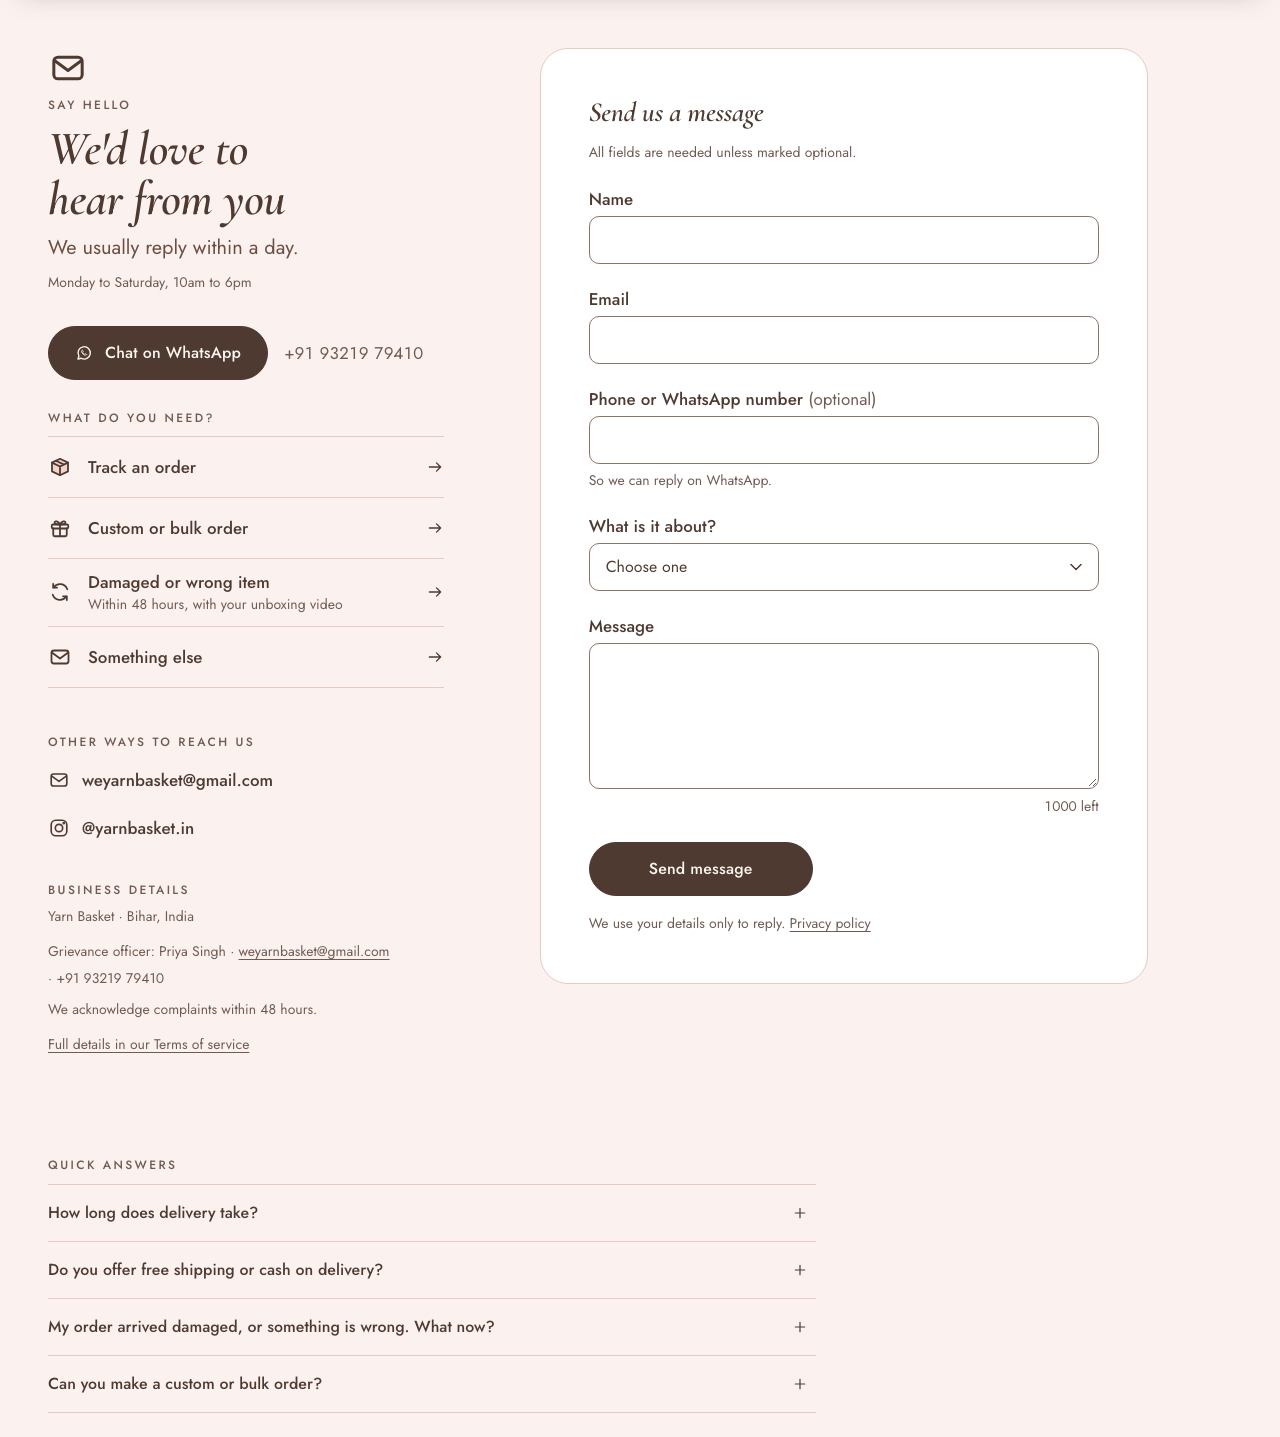
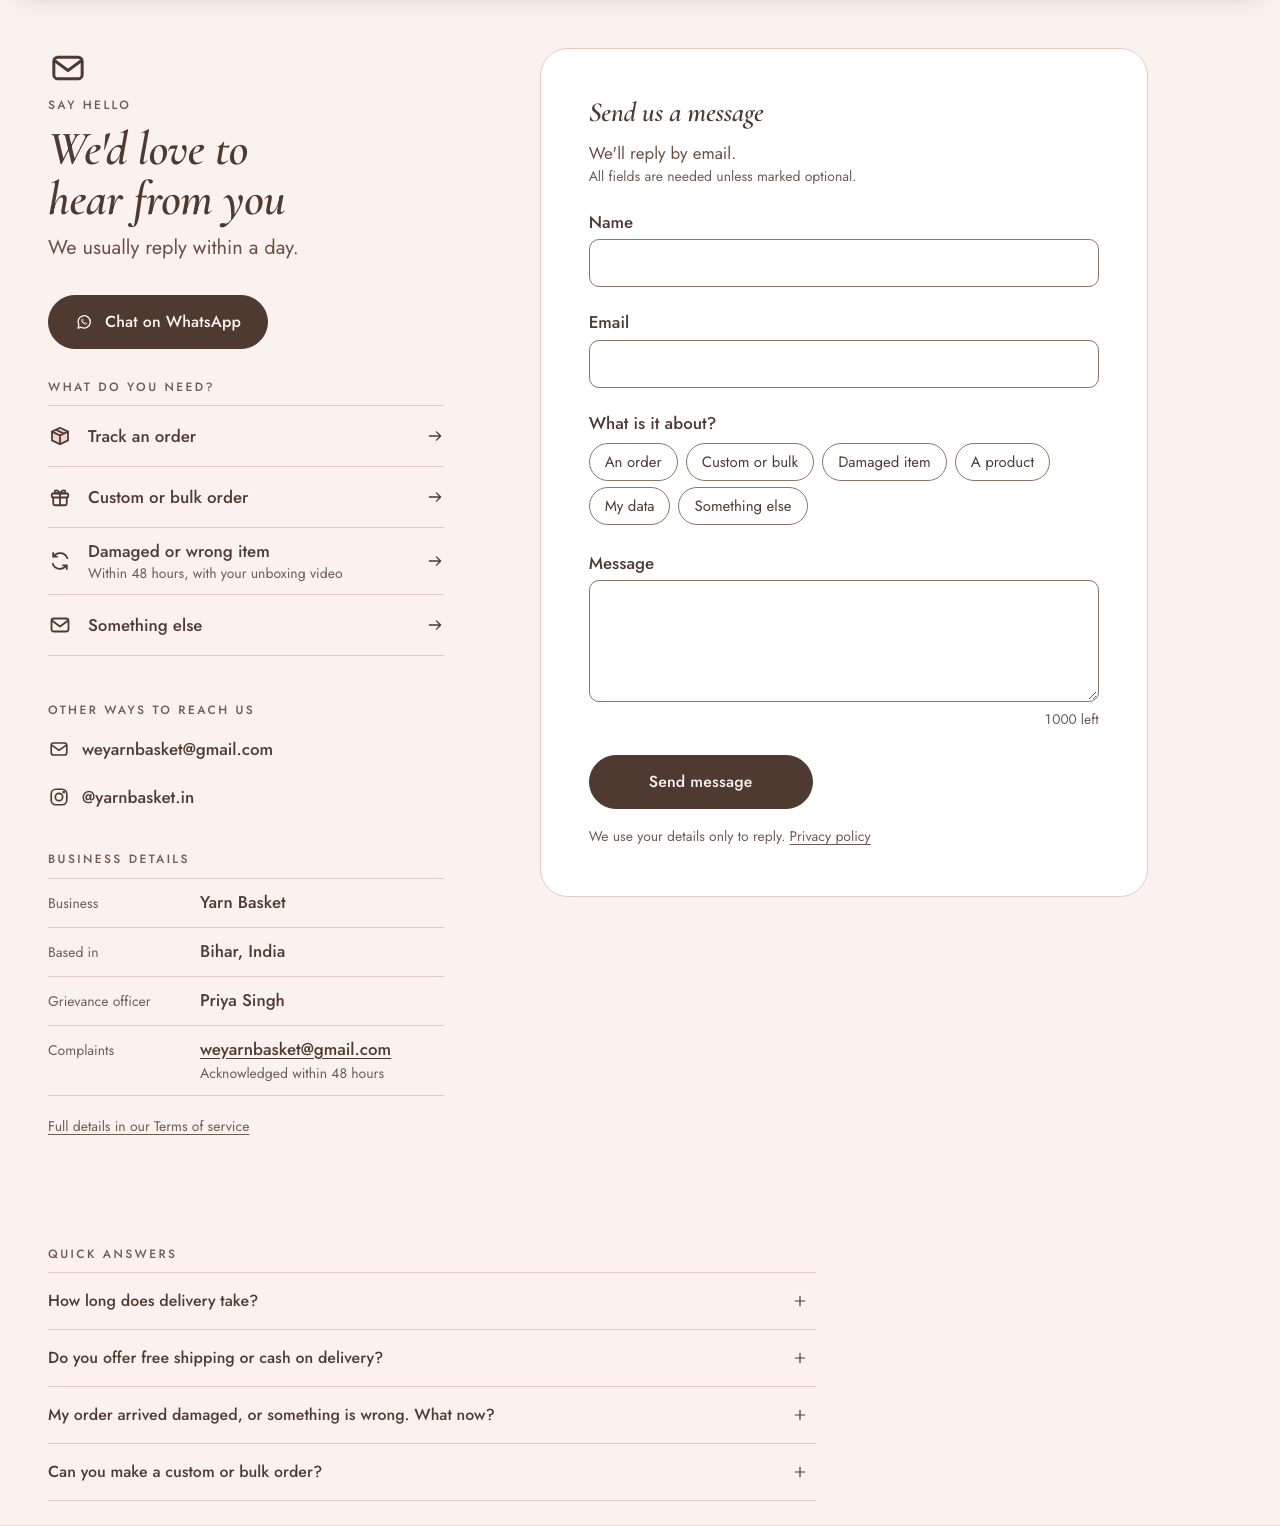
Contact page, round 2: no phone number or hours, the topic as six pills, no phone field, "We'll reply by email", business details as a small table; structured data carries the email only (docs/contact-plan.md "Round 2", docs/decisions.md 2026-10-08).

diff --git a/theme/assets/contact.js b/theme/assets/contact.js
@@ -1,5 +1,5 @@
 // Contact page (docs/contact-plan.md). The form works without this file: it posts as a normal page load. This adds
-// a message under a field that is wrong, the order number only for the topics that have one, the characters left,
+// a message under a field that is wrong (the topic pills count as one), the order number only for the topics that have one, the characters left,
 // a form filled in from the address (?topic=order&order=1042&about=…) and a "Sending…" button.
 const form = document.querySelector('[data-contact-form]');
 const topic = form?.querySelector('[data-topic]');
@@ -11,14 +11,15 @@ if (topic) {
   const send = form.querySelector('[data-send]');
   const label = send.textContent;
   const checked = [...form.querySelectorAll('[data-error]')];
-  const key = () => topic.selectedOptions[0]?.dataset.key || '';
+  const radios = [...topic.querySelectorAll('input')];
+  const key = () => radios.find((r) => r.checked)?.dataset.key || '';
   const store = { get: () => { try { return JSON.parse(sessionStorage.getItem('yb-contact')) || {}; } catch { return {}; } }, set: (v) => { try { sessionStorage.setItem('yb-contact', JSON.stringify(v)); } catch {} } };
 
   form.noValidate = true;
   const ready = () => { send.removeAttribute('aria-disabled'); send.textContent = label; };
 
   const check = (field) => {
-    const bad = !field.validity.valid;
+    const bad = field === topic ? !key() : !field.validity.valid;
     const out = document.getElementById(`${field.id}-error`);
     if (bad) field.setAttribute('aria-invalid', 'true');
     else field.removeAttribute('aria-invalid');
@@ -33,8 +34,8 @@ if (topic) {
     form.querySelectorAll('[data-topic-note]').forEach((el) => { el.hidden = el.dataset.topicNote !== now; });
   };
   const pick = (wanted) => {
-    const option = [...topic.options].find((o) => o.dataset.key === wanted);
-    if (option) topic.value = option.value;
+    const radio = radios.find((r) => r.dataset.key === wanted);
+    if (radio) radio.checked = true;
     showTopic();
   };
   const count = () => {
@@ -53,11 +54,11 @@ if (topic) {
   showTopic();
   count();
 
-  checked.forEach((field) => {
+  checked.filter((field) => field !== topic).forEach((field) => {
     field.addEventListener('blur', () => { if (field.value || field.hasAttribute('aria-invalid')) check(field); });
     field.addEventListener('input', () => { if (field.hasAttribute('aria-invalid')) check(field); });
   });
-  topic.addEventListener('change', showTopic);
+  topic.addEventListener('change', () => { showTopic(); if (topic.hasAttribute('aria-invalid')) check(topic); });
   body.addEventListener('input', count);
   document.querySelectorAll('[data-topic-link]').forEach((link) => link.addEventListener('click', () => pick(link.dataset.topicLink)));
 
@@ -65,7 +66,7 @@ if (topic) {
     const wrong = checked.filter((field) => !check(field));
     if (wrong.length) {
       event.preventDefault();
-      wrong[0].focus();
+      (wrong[0] === topic ? radios[0] : wrong[0]).focus();
       return;
     }
     if (order.closest('[hidden]')) order.value = '';

diff --git a/docs/contact-plan.md b/docs/contact-plan.md
@@ -1,6 +1,6 @@
 # Contact page
 
-**Status: built 2026-10-08, waiting for Raushan's look on a phone and one real send.** Decisions in `decisions.md`. Guarded by `npm run check -- --only 23`. Preview: `/pages/contact?view=contact` (until the page's template is set to `contact`, plain `/pages/contact` shows the page without the quick answers).
+**Status: built 2026-10-08, round 2 the same day (see the end: no phone number or hours, topic pills, no phone field, business details as a table). Where this page and "Round 2" differ, Round 2 is what is built.** Decisions in `decisions.md`. Guarded by `npm run check -- --only 23`. The store's Contact page already uses the `contact` template, so `/pages/contact` shows everything.
 
 Mockups (the page as built): `docs/mockups/contact-360.png`, `contact-1280.png`.
 
@@ -195,4 +195,19 @@ What differs from the plan above, and what was found on the way:
 - **Check 23 has 18 lines** on 360, 320 and 1280px: fit, one h1, 44px controls, 16px labelled fields, the empty send, messages clearing, the order number following the topic, axe as the page opens and with messages, a filled-in arrival, the WhatsApp messages, and no JavaScript.
 - **Found, not fixed (not this page):** the phone menu's "Custom orders" tile opens WhatsApp with "I&#39;d like to ask…" in the message. The `t` filter escapes the apostrophe before `url_encode`; `replace: '&#39;', "'"` first fixes it, as the product page does. It is in `theme/sections/header.liquid`, which another session has open.
 
-Still to do, with Raushan's go: set the page's template to `contact` and its SEO title and description (Admin API); approve the `ContactPage` structured data.
+
+## Round 2 (2026-10-08, after Raushan's look on a phone)
+
+Raushan sent a real message and it arrived. He asked for the phone number and the hours to go, for better-looking business details, and whether the form is worth keeping; then for Claude's opinion, to go with it.
+
+- **The form stays, shorter.** Not everyone has WhatsApp to hand (a work laptop, a corporate buyer); it is where the fallback links land and where a data request can be made in writing; Shopify sends the email and filters spam, so it costs nothing to run.
+- **No phone number anywhere on the page:** not under the WhatsApp button, not in the grievance line, not in the structured data. The WhatsApp button reaches the same number and the Terms keep it.
+- **No hours.** "We usually reply within a day." is the one promise; the thank-you panel says "We usually reply within a day, by email." The "Contact hours" setting is removed. The Terms still say Monday to Saturday, 10am to 6pm for the grievance officer: that is the legal promise.
+- **The phone field is gone.** Fields: Name, Email, What is it about?, Order number (optional, for an order or a damaged item), Message.
+- **"What is it about?" is six pills, not a dropdown:** An order · Custom or bulk · Damaged item · A product · My data · Something else. Radio buttons in a `radiogroup`, so arrows move and a screen reader hears one group; each is 44px to tap with a 38px pill drawn inside, Taupe edge, Blush with a Cocoa line when chosen. The pill's words are what the email carries.
+- **"We'll reply by email."** is the first line under "Send us a message".
+- **Business details is a small table** on the page's lines: Business, Based in, Grievance officer, Complaints (the email, "Acknowledged within 48 hours"), then the Terms link. On phones the label sits above its value, so the email is never cut in two.
+- **Admin (Claude, Admin API, read back):** the Contact page's SEO title is "Contact us" and its description "Contact Yarn Basket on WhatsApp or by message. We usually reply within a day." Its template was already `contact` (Shopify's default for that page).
+- **For Raushan:** form messages go to the store's sender email, today singhraushan2410@gmail.com, which is also what customers see on order emails. Settings → Notifications → Sender email → weyarnbasket@gmail.com, then confirm the link sent there (launch checklist).
+- **Check 23 has 21 lines:** adds six pills inside the card, no number or hours on the page, the right arrow moving the choice, and the topic's message going once one is picked.
+- Still not seen by Claude: the thank-you panel and Shopify's own error list (the bot check). Raushan's send worked.

diff --git a/docs/launch-checklist.md b/docs/launch-checklist.md
@@ -84,9 +84,9 @@ The theme side is built. Everything stays hidden until these are done, and `npm 
 - [ ] Payment gateway, COD, shipping and checkout: see "Shipping, payments and checkout" below
 
 - [ ] **Contact page (docs/contact-plan.md, built 2026-10-08):**
-  - send one message from `/pages/contact` by hand: the puzzle (Shopify's bot check) may show; check the thank-you panel, and which inbox the email lands in with Name, Email, Phone, Topic, Order number and Message (Settings → Notifications → sender email)
-  - the Contact page's template is `contact` (Content → Pages → Contact → Theme template) once this theme is published, or the quick answers don't show
-  - after publishing, Theme settings → Social on the live theme has the Contact hours and the Grievance officer
+  - **Sender email:** Settings → Notifications → Sender email → weyarnbasket@gmail.com, then confirm the link Shopify sends there. Today it is singhraushan2410@gmail.com: contact form messages land there (Raushan's test, 2026-10-08) and customers see it on order emails. Then send one more message from `/pages/contact` to see it arrive in the business inbox
+  - the Contact page's template is `contact` (it is: Shopify's default for that page; read from the store 2026-10-08). Its SEO title and description were set the same day
+  - after publishing, Theme settings → Social on the live theme has the Grievance officer
 
 ## Shipping, payments and checkout (docs/shipping-checkout-comparison.md, decided 2026-10-03)
 Decided: Shiprocket ships the parcels, Shiprocket Checkout is the checkout with Razorpay connected inside it, partial COD only (no full COD). Shopify's checkout with Razorpay stays as the fallback. Do them in this order:

diff --git a/docs/decisions.md b/docs/decisions.md
@@ -2,6 +2,19 @@
 
 Newest first. Each entry says what was decided and why, so later work doesn't reopen it by accident.
 
+## 2026-10-08 (contact page, round 2: no number, no hours, a shorter form)
+
+Raushan looked on his phone, sent a message that arrived, and asked for Claude's opinion on four points, to go with it.
+
+- **The form stays** (Claude). Some people don't have WhatsApp to hand, the fallback links and written data requests need somewhere to land, and it costs nothing to run.
+- **No phone number on the page, and none in its structured data** (Raushan asked for it gone under the button; Claude took it out everywhere so the page says one thing). WhatsApp reaches the same number; the Terms keep it.
+- **No hours** (Raushan: replies can come at any time). "We usually reply within a day." is the promise. The "Contact hours" setting is removed.
+- **The phone field is gone and the topic is six pills** instead of a dropdown: every choice in view, one tap. They are radio buttons, so keyboards and screen readers get a normal group.
+- **Business details is a small table** (Business, Based in, Grievance officer, Complaints), not three grey sentences. Label above value on phones.
+- **Admin (Claude, Admin API):** the Contact page's SEO title and description are set. The `ContactPage` structured data stays, with the email only.
+- **Open, for Raushan:** the store's sender email is his personal Gmail; form messages go there and customers see it on order emails. Change it to weyarnbasket@gmail.com (launch checklist).
+
+
 ## 2026-10-08 (a contact page; docs/contact-plan.md)
 
 `/pages/contact` showed only its title, and seven places in the shop send people there.
